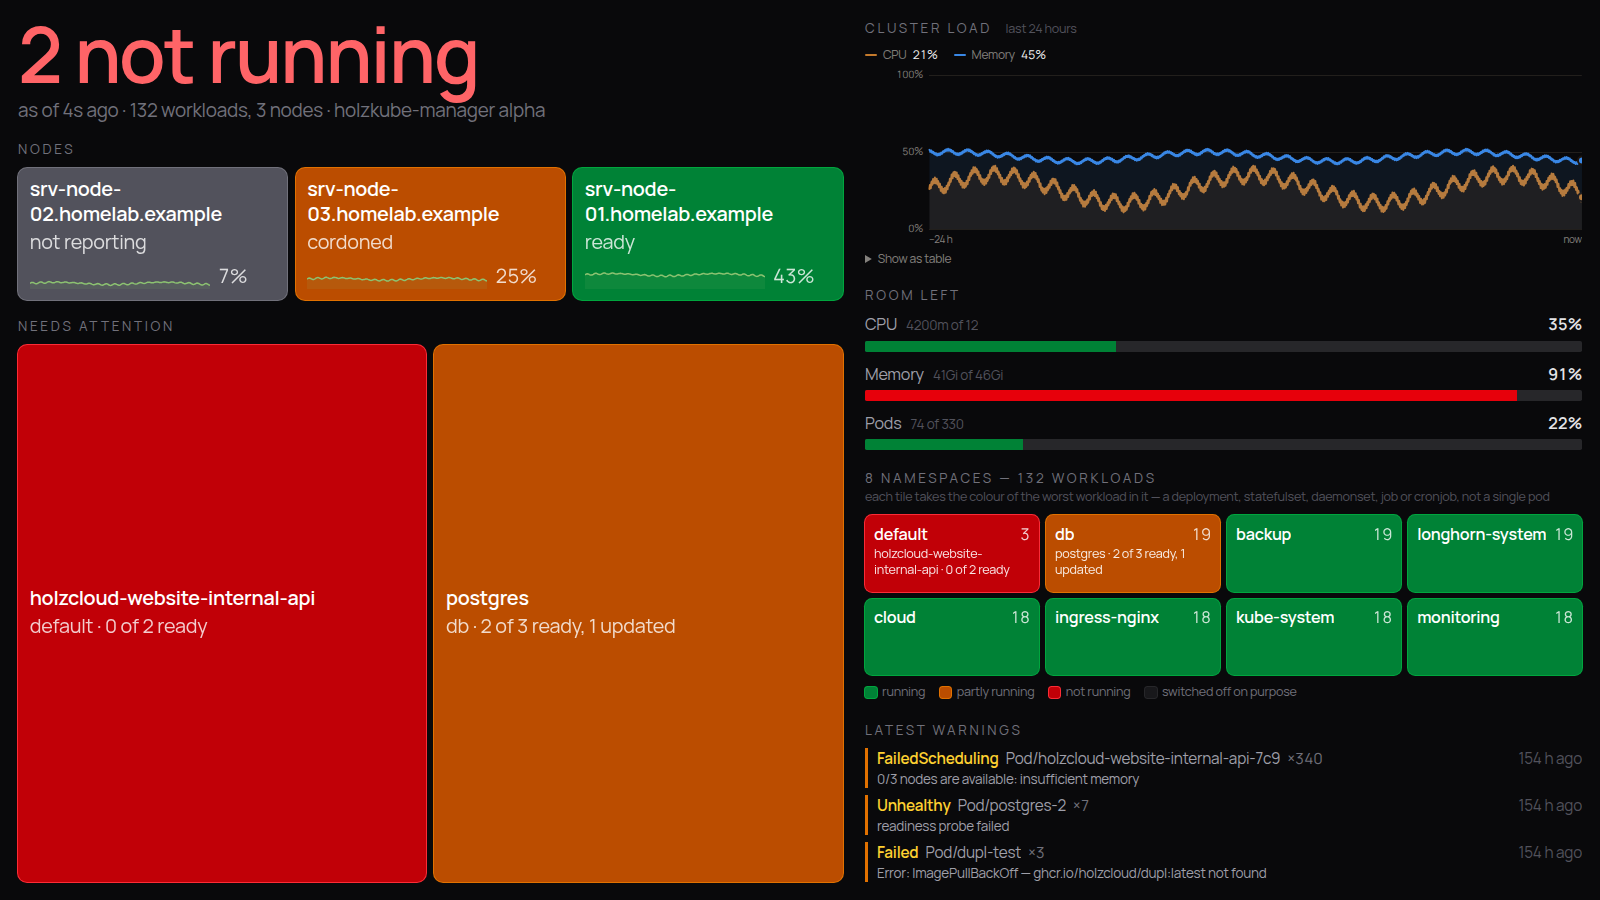
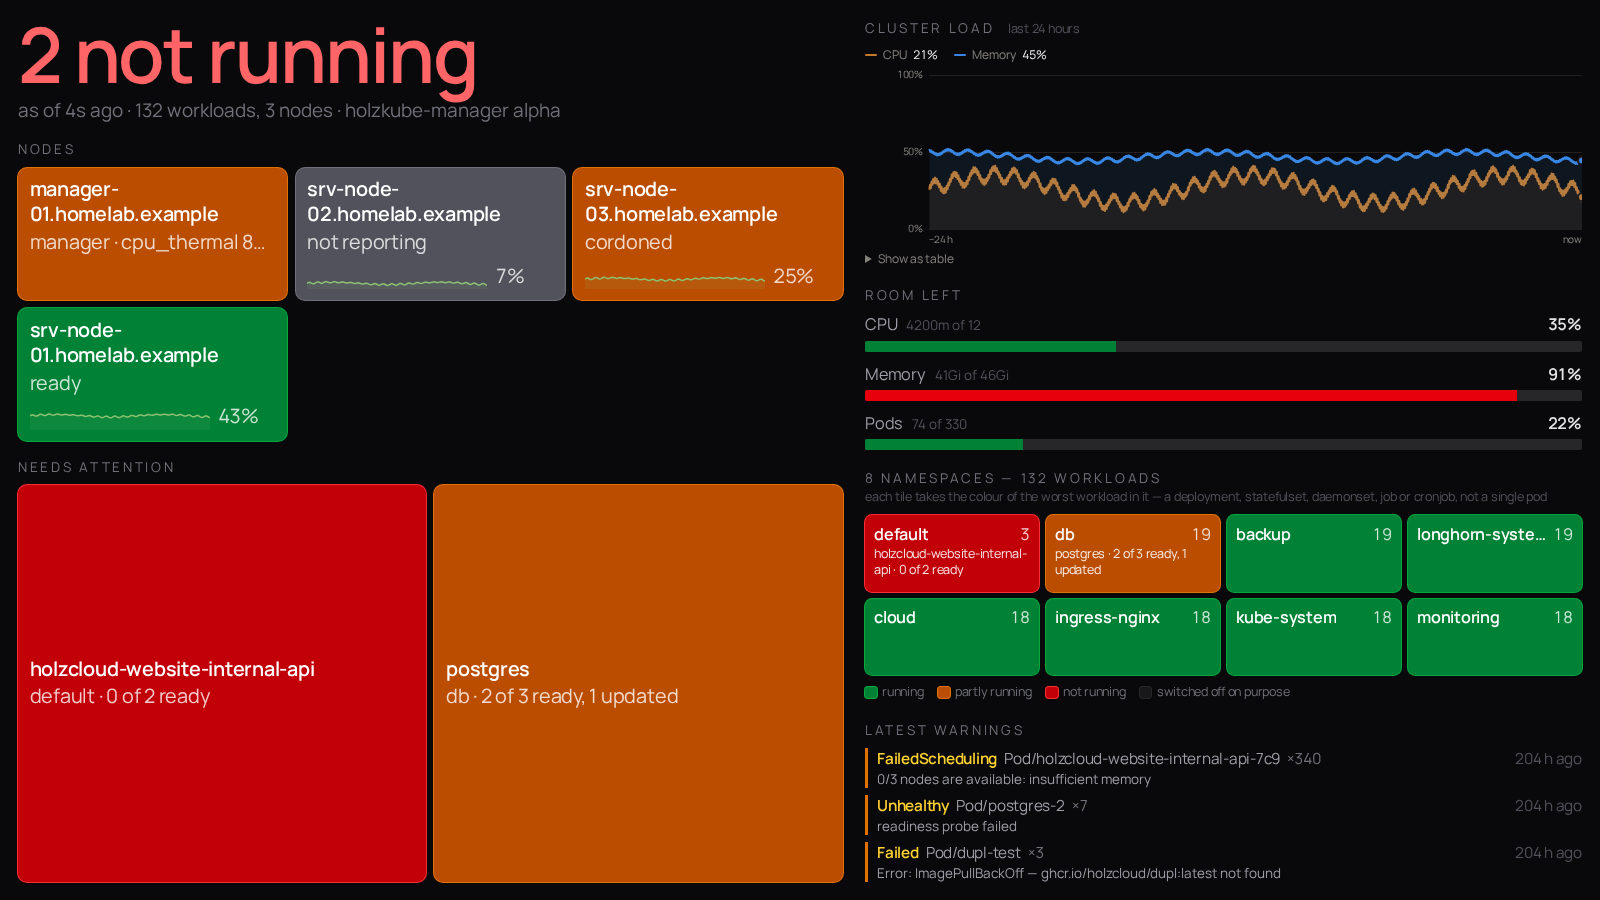
docs(12-07): README names the host's history, warning and state, and shows them
"What it does": the Host bullet adds 24 hours of history kept across
restarts over 1 h / 6 h / 24 h, the warning that names value and threshold,
and the state in the navigation and on the wall. "A look around": one
sentence each for the Host and the wall pictures.

host.png: /host in Warning at 24 h, drawn tall enough to reach the curves --
the notice with "cpu_thermal 82.1 °C ≥ 80 °C", the network curve with the
stopped stretch as a gap, "Not readable — no history" for processor and
memory. wall.png: the amber manager-01.homelab.example tile first in Nodes.
Fixture values only; rendered by a binary built as v0.1.0, the fixture's
service version. The renderer moves the host reading's times to now as a
whole, so "measured 23 s ago" stays 23 s.

diff --git a/README.md b/README.md
@@ -42,8 +42,12 @@ did.
   disks and network, with the last 24 hours kept across restarts
 - **The machine it runs on** — the Host page: what the device is, which
   version runs and what the last update check found, and live CPU, memory,
-  filesystems, temperatures and network throughput; a value the service's
-  hardening hides says so instead of showing 0
+  filesystems, temperatures and network throughput, with 24 hours of history
+  kept across restarts and shown over 1 h, 6 h or 24 h like a node's; a warning
+  when a temperature or a filesystem crosses its threshold, naming the value and
+  the threshold; its state (healthy, warning, not readable) in the navigation
+  and as a tile on the wall; a value the service's hardening hides says so
+  instead of showing 0
 - **Apps** — everything that runs, grouped by what was installed, with its CPU
   and memory now and over the day
 - **Kubernetes** — workloads, pods and why one is broken, events, storage,
@@ -83,14 +87,17 @@ answer.
 
 ![How full the cluster is, per node](docs/screenshots/kubernetes.png)
 
-**The wall.** Every node and workload as a tile, how full the cluster is and
-the latest warnings. It never scrolls, and it always says how old its answer is.
+**The wall.** Every node and workload as a tile — the machine holzkube-manager
+runs on first among them — how full the cluster is and the latest warnings. It never scrolls, and it always says how old its answer is.
 
 ![The wall](docs/screenshots/wall.png)
 
 **Host.** The machine holzkube-manager itself runs on: what it is, the service
 and its last update check, and how it is doing right now. A value the service's
 hardening hides says so, and says which line shows it, instead of reading 0.
+Here the processor has run past its warning line: the notice says which value
+crossed which threshold, and the day's curves show it climbing — with a gap
+where the service was stopped, not a line drawn across it.
 
 ![The machine holzkube-manager runs on](docs/screenshots/host.png)
 
